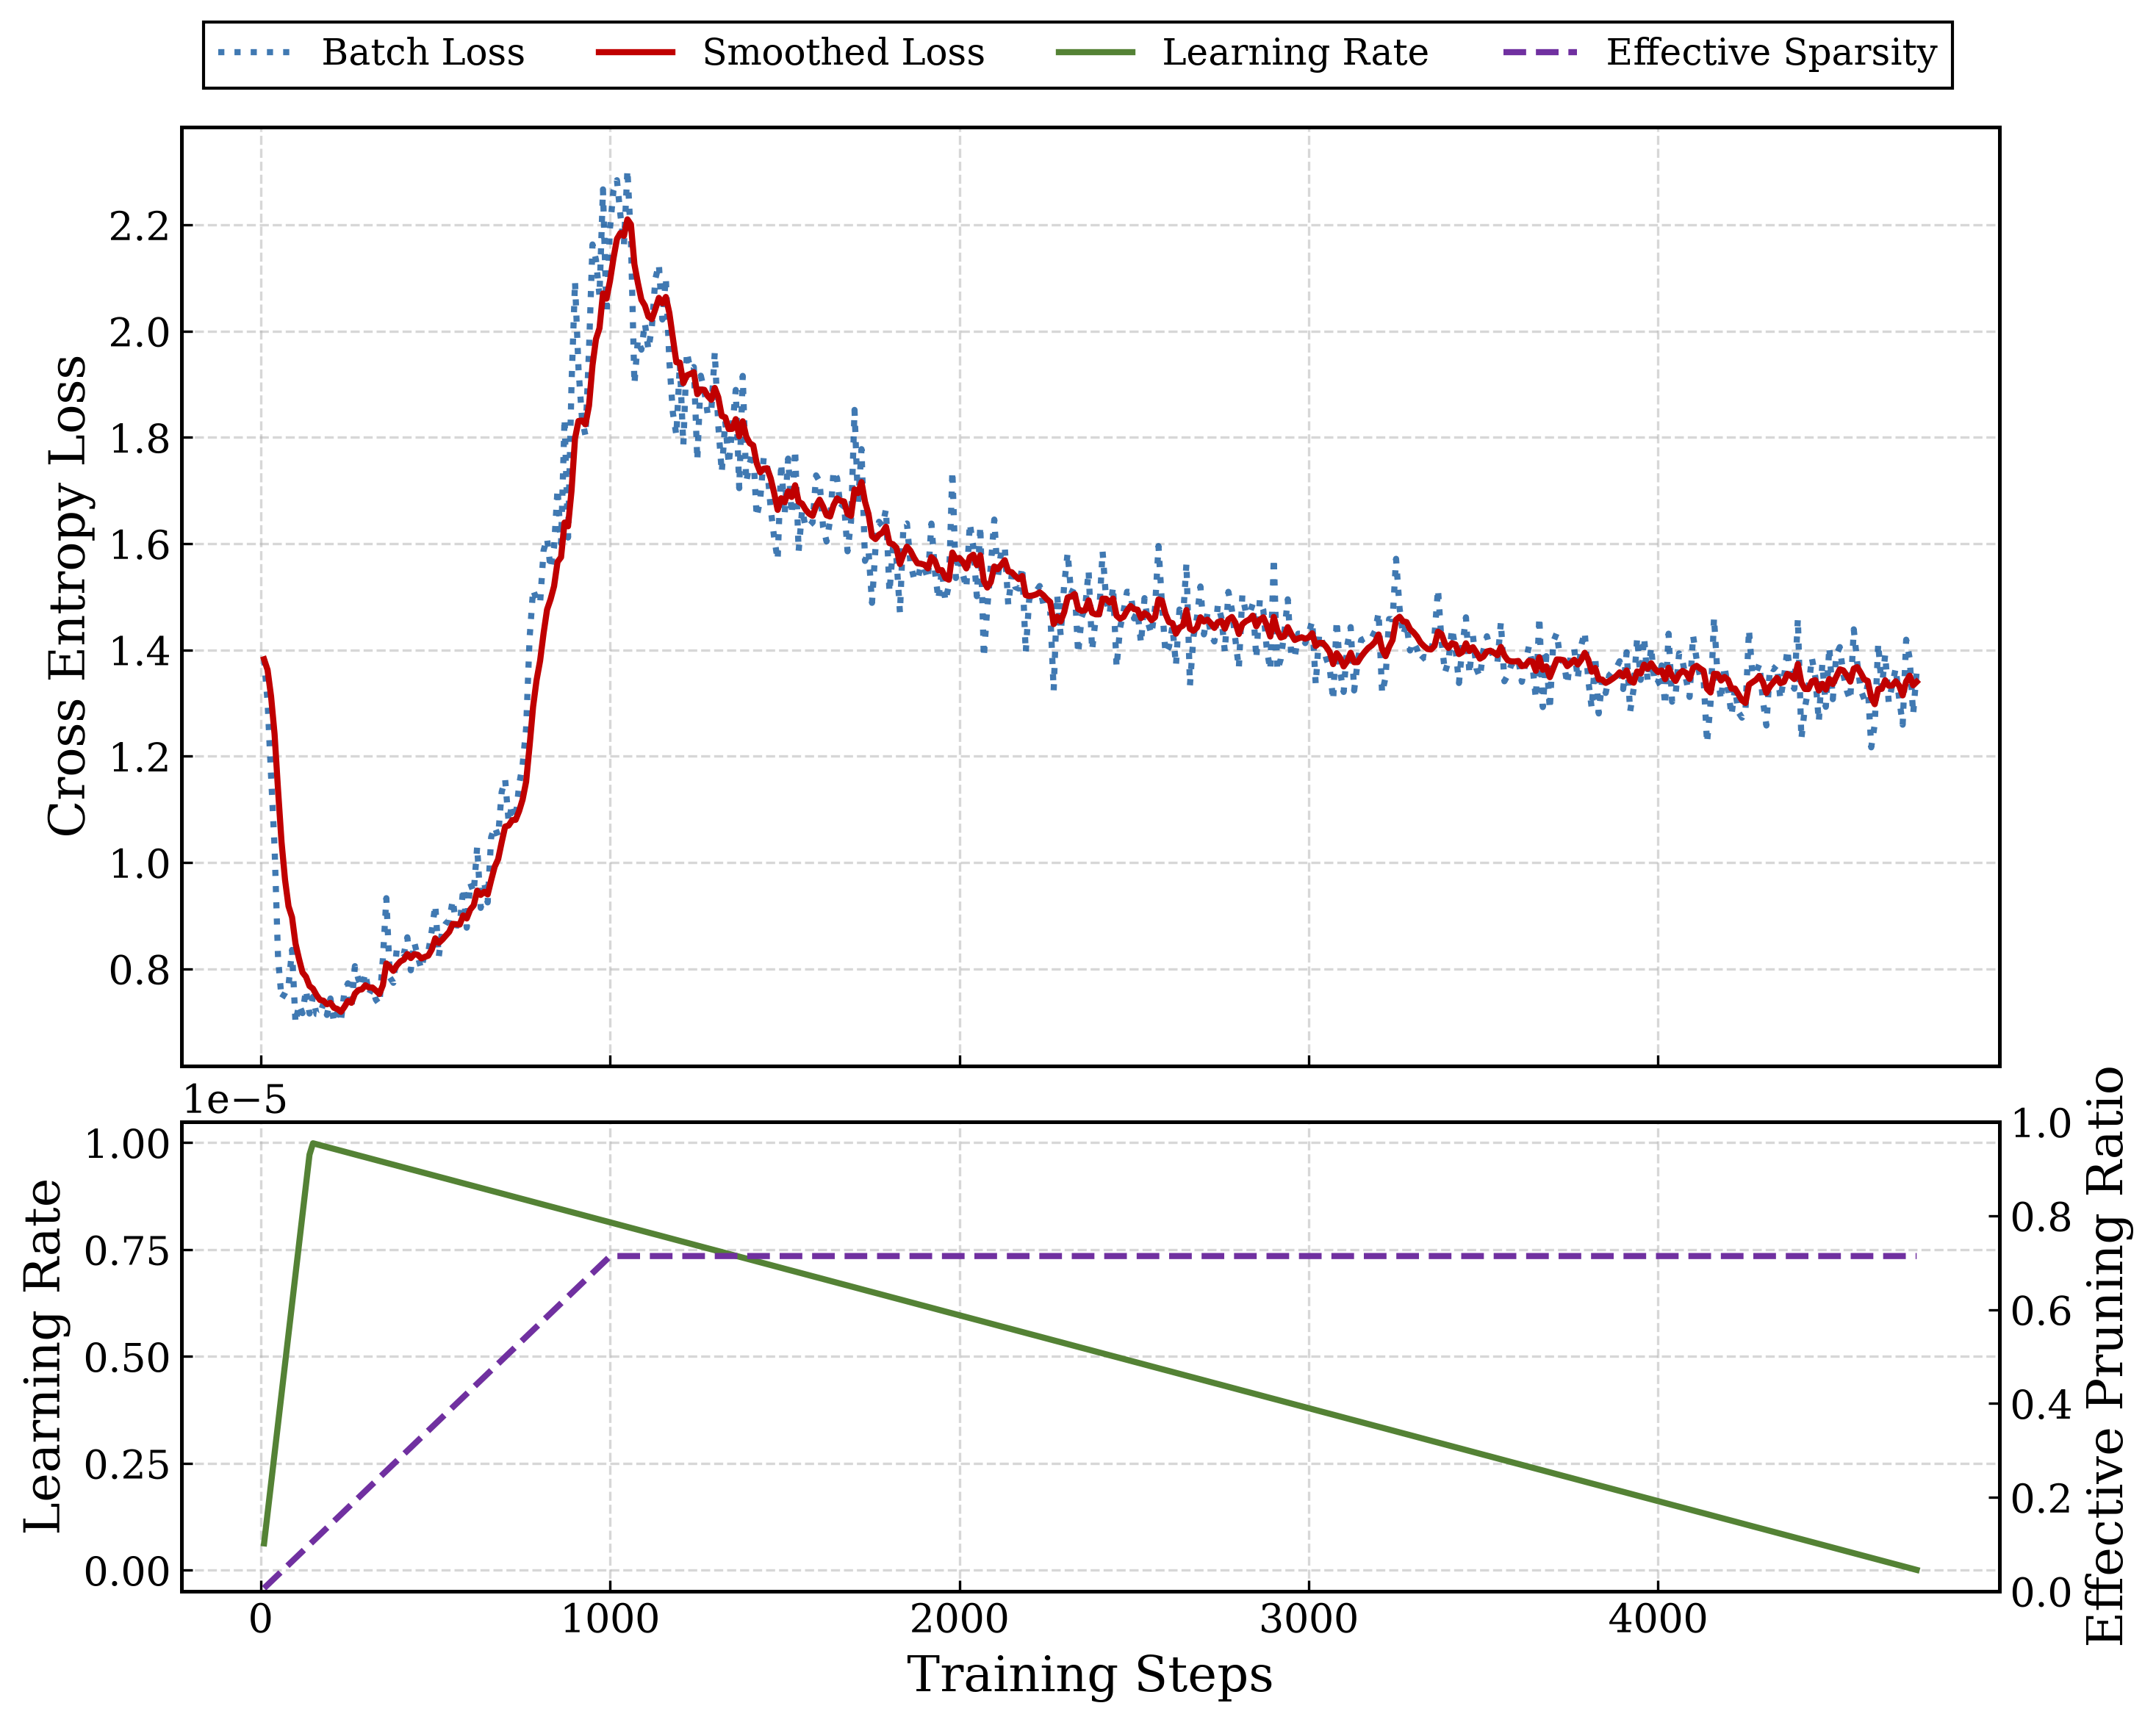
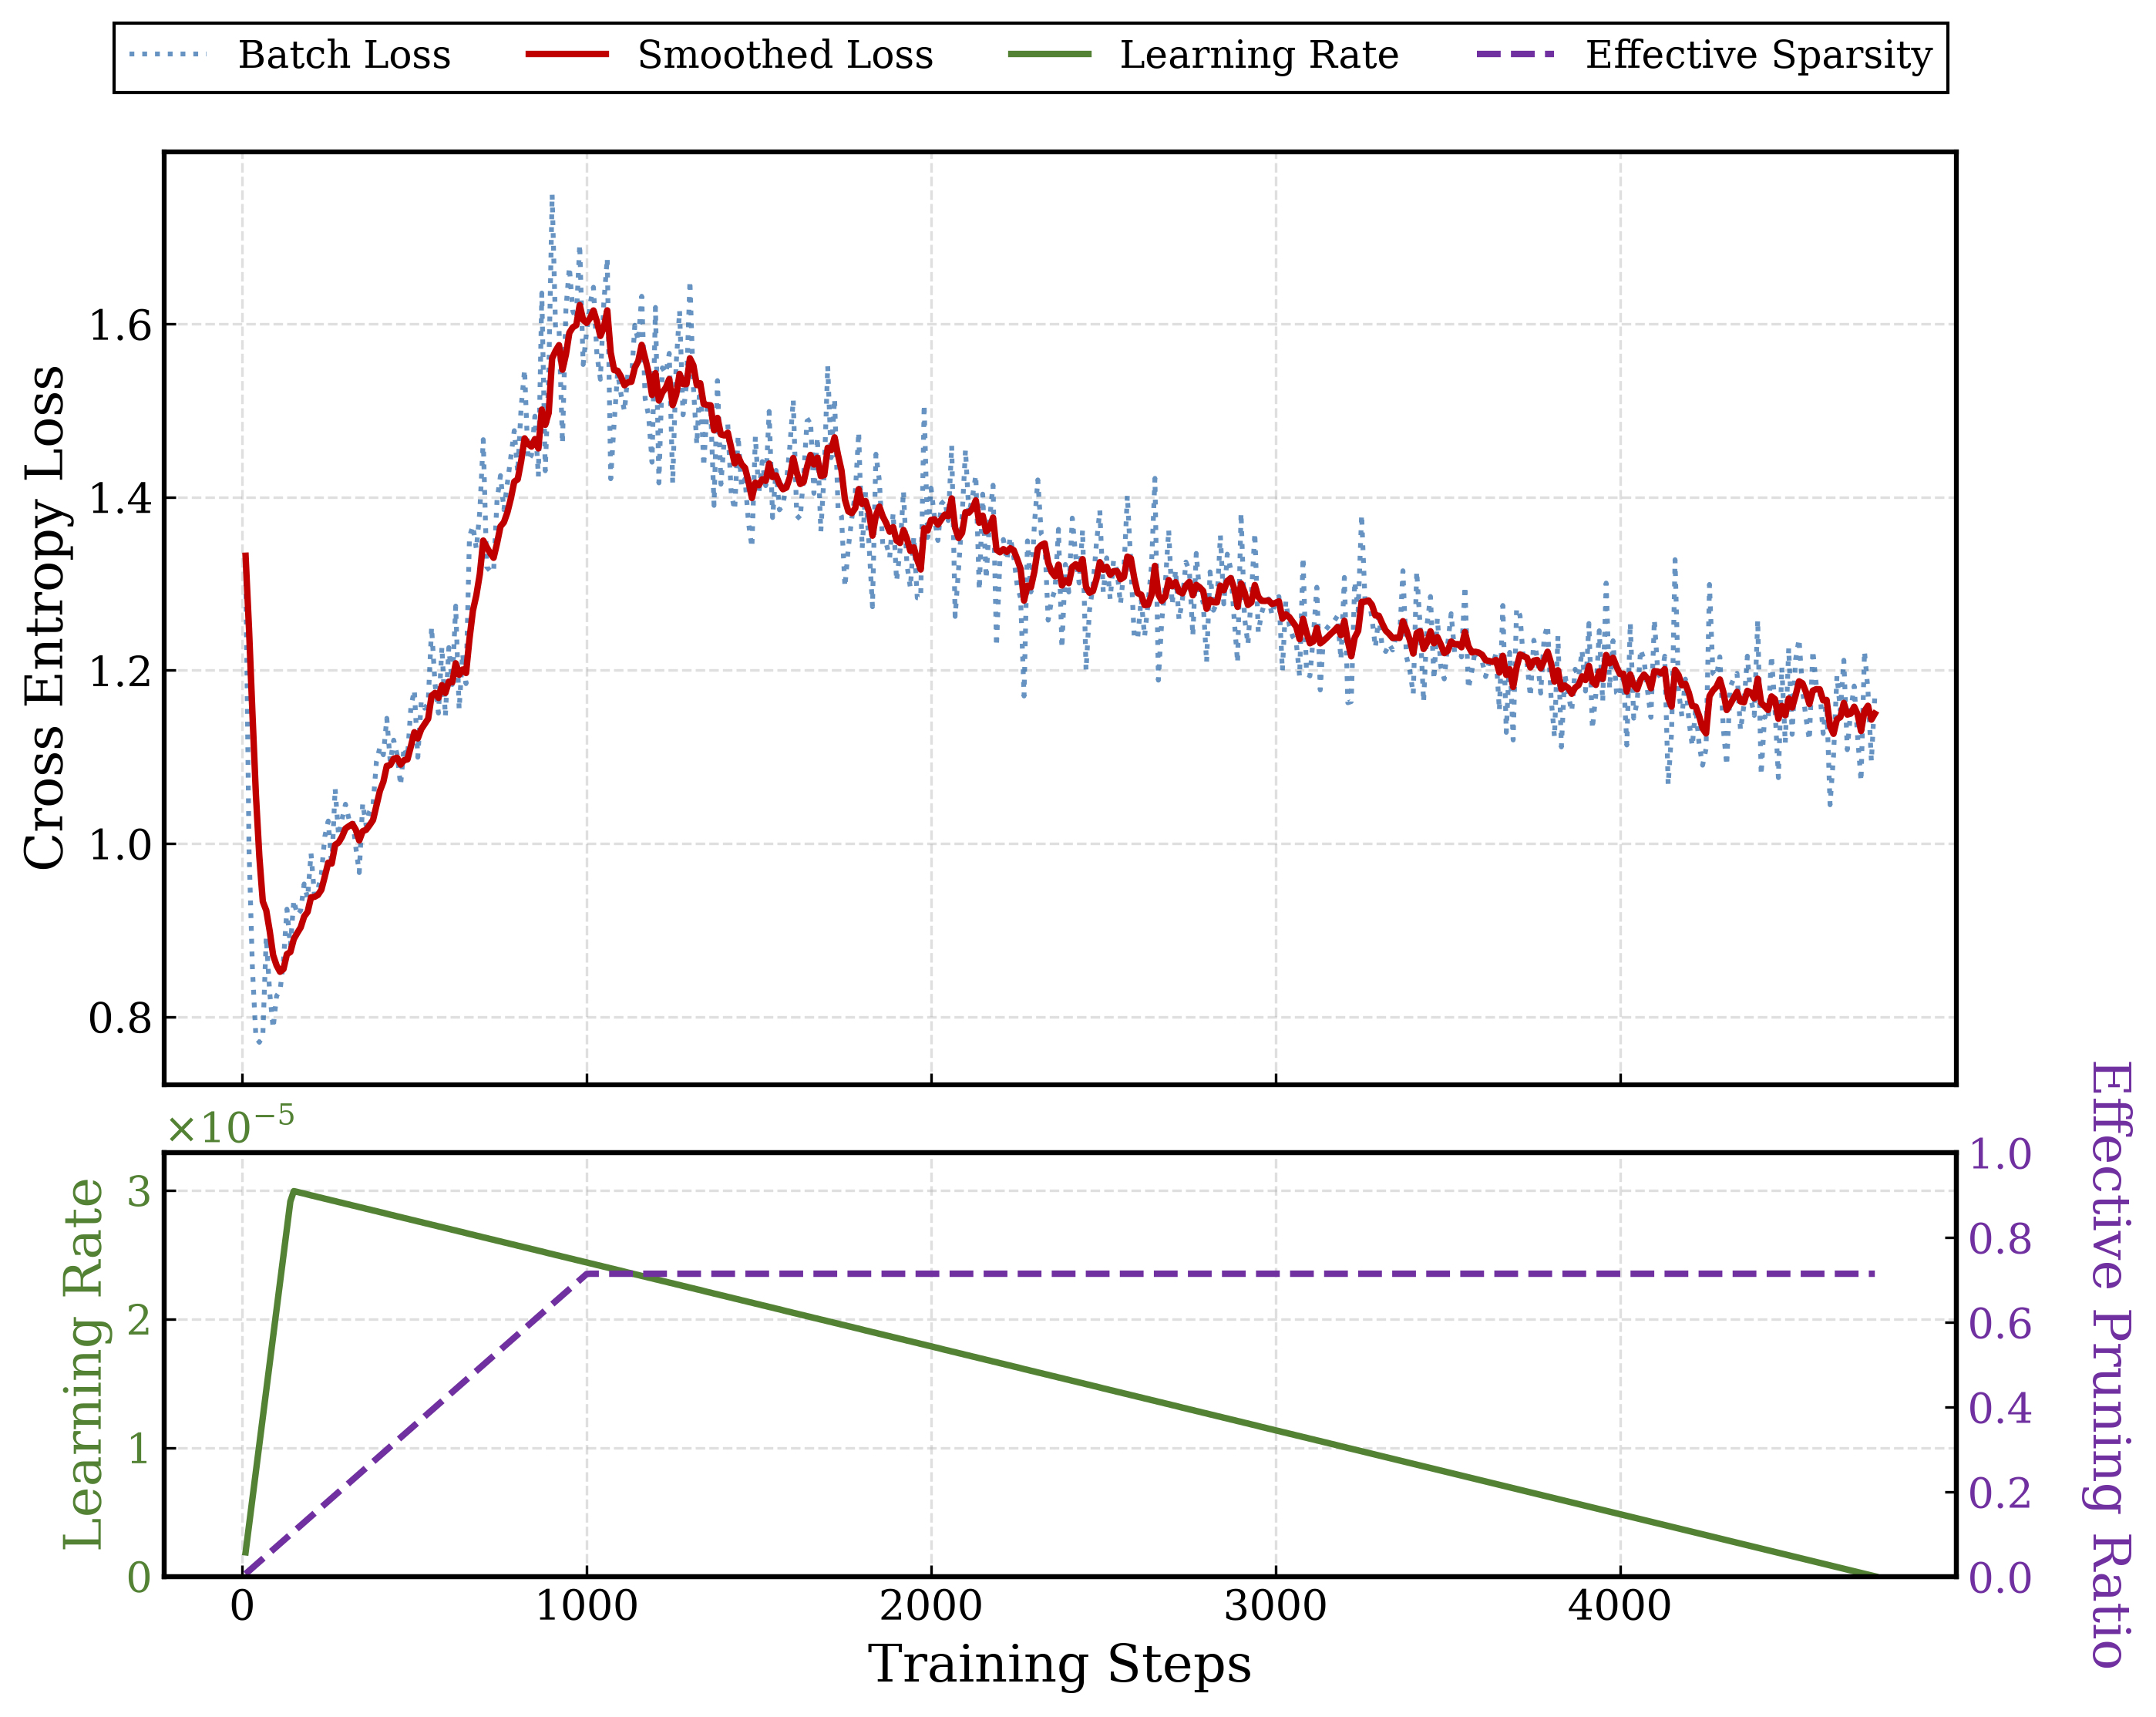
adjust model architecture

diff --git a/visualize_loss.py b/visualize_loss.py
@@ -1,7 +1,7 @@
 #!/usr/bin/env python3
 # -*- coding: utf-8 -*-
 """
-IFPruning SFT Training Dynamics Visualizer
+IFPruning SFT Training Dynamics Visualizer (Conference Optimized)
 """
 
 import re
@@ -14,7 +14,7 @@ OUTPUT_PATH = Path("./loss_curve.png")
 
 SMOOTHING_WEIGHT = 0.75
 
-# 请根据实际使用的模型修改 ORIGINAL_FFN_DIM (例如 Gemma-4-12b 为 14336)
+# 请根据实际使用的模型修改 ORIGINAL_FFN_DIM (例如 Gemma-4-12B 为 14336)
 ORIGINAL_FFN_DIM = 14336 
 TARGET_FFN_DIM = 4096
 
@@ -55,21 +55,21 @@ def compute_ema(values, weight=0.85):
 # 3. 绘图风格
 def set_academic_style():
     plt.rcParams.update({
-        "font.family": "serif",           # 使用衬线字体
+        "font.family": "serif",
         "font.serif": ["Times New Roman", "DejaVu Serif"],
-        "font.size": 14,                  # 基础字号放大
-        "axes.labelsize": 16,             # 坐标轴标签字号
-        "axes.titlesize": 16,             # 子图标题字号
-        "legend.fontsize": 12,            # 图例字号
-        "xtick.labelsize": 13,            # X轴刻度字号
-        "ytick.labelsize": 13,            # Y轴刻度字号
-        "xtick.direction": "in",          # 刻度朝内
-        "ytick.direction": "in",          # 刻度朝内
-        "axes.linewidth": 1.2,            # 边框加粗
-        "lines.linewidth": 2.0,           # 默认线条加粗
-        "figure.facecolor": "white",      # 纯白背景
-        "axes.facecolor": "white",        # 纯白绘图区
-        "grid.alpha": 0.5,                # 弱化网格
+        "font.size": 14,
+        "axes.labelsize": 16,
+        "axes.titlesize": 16,
+        "legend.fontsize": 12,
+        "xtick.labelsize": 13,
+        "ytick.labelsize": 13,
+        "xtick.direction": "in",
+        "ytick.direction": "in",
+        "axes.linewidth": 1.5,
+        "lines.linewidth": 2.0,
+        "figure.facecolor": "white",
+        "axes.facecolor": "white",
+        "grid.alpha": 0.4,
         "grid.linestyle": "--"
     })
 
@@ -82,47 +82,57 @@ def generate_conference_plot(steps, losses, lrs, pruning_ratios, target_max_rati
         figsize=(10, 8), 
         dpi=300, 
         sharex=True, 
-        gridspec_kw={'height_ratios': [2, 1]}
+        gridspec_kw={'height_ratios': [2.2, 1]}
     )
     
-    # 全封闭边框与网格
-    for ax in (ax1, ax2):
-        ax.grid(True)
-        for spine in ax.spines.values():
-            spine.set_color('black')
-
     # ------------------ 顶部子图: Loss ------------------
     smooth_losses = compute_ema(losses, weight=SMOOTHING_WEIGHT)
 
-    ax1.plot(steps, losses, color="#004C99", linewidth=2, linestyle=":", alpha=0.75, label="Batch Loss")
-    ax1.plot(steps, smooth_losses, color="#C00000", linewidth=2, linestyle="-", label="Smoothed Loss")
+    line1 = ax1.plot(steps, losses, color="#004C99", linewidth=1.5, linestyle=":", alpha=0.6, label="Batch Loss")
+    line2 = ax1.plot(steps, smooth_losses, color="#C00000", linewidth=2, linestyle="-", label="Smoothed Loss")
     
     ax1.set_ylabel("Cross Entropy Loss")
+    ax1.grid(True)
+    for spine in ax1.spines.values():
+        spine.set_color('black')
 
     # ------------------ 底部子图: LR & Sparsity ------------------
-    ax2.plot(steps, lrs, color="#548235", linewidth=2.0, linestyle="-", label="Learning Rate")
+    line3 = ax2.plot(steps, lrs, color="#548235", linewidth=2.0, linestyle="-", label="Learning Rate")
     ax2.set_xlabel("Training Steps")
-    ax2.set_ylabel("Learning Rate")
+    ax2.set_ylabel("Learning Rate", color="#548235") 
+    ax2.tick_params(axis='y', labelcolor="#548235")
+    ax2.grid(True)
+    
+    # 获取 LR 的最大值以设置合理的 Y 轴上限
+    max_lr = max(lrs)
+    ax2.set_ylim(0.0, max_lr * 1.1)
 
+    ax2.ticklabel_format(axis='y', style='sci', scilimits=(0,0), useMathText=True)
+    ax2.yaxis.get_offset_text().set_color("#548235")
+
+    # 次坐标轴 (Effective Sparsity)
     ax3 = ax2.twinx()
-    ax3.plot(steps, pruning_ratios, color="#7030A0", linewidth=2.0, linestyle="--", label="Effective Sparsity")
-    ax3.set_ylabel("Effective Pruning Ratio")
+    line4 = ax3.plot(steps, pruning_ratios, color="#7030A0", linewidth=2.0, linestyle="--", label="Effective Sparsity")
+    ax3.set_ylabel("Effective Pruning Ratio", color="#7030A0", rotation=-90, va="bottom", labelpad=15)
+    ax3.tick_params(axis='y', labelcolor="#7030A0")
     
     ax3.set_ylim(0.0, 1.0) 
     ax3.tick_params(direction="in")
 
-    lines_1, labels_1 = ax1.get_legend_handles_labels()
-    lines_2, labels_2 = ax2.get_legend_handles_labels()
-    lines_3, labels_3 = ax3.get_legend_handles_labels()
+    for spine in ax2.spines.values():
+        spine.set_color('black')
+
+    # ------------------ 合并图例 ------------------
+    lines = line1 + line2 + line3 + line4
+    labels = [l.get_label() for l in lines]
     
-    fig.tight_layout()
-    fig.subplots_adjust(top=0.92, hspace=0.08) 
+    fig.subplots_adjust(top=0.88, hspace=0.1) 
     
     fig.legend(
-        lines_1 + lines_2 + lines_3, 
-        labels_1 + labels_2 + labels_3, 
+        lines, 
+        labels, 
         loc="upper center", 
-        bbox_to_anchor=(0.5, 0.99), 
+        bbox_to_anchor=(0.5, 0.96),
         ncol=4, 
         frameon=True, 
         edgecolor="black", 
@@ -130,7 +140,7 @@ def generate_conference_plot(steps, losses, lrs, pruning_ratios, target_max_rati
         framealpha=1.0
     )
 
-    fig.savefig(OUTPUT_PATH, bbox_inches='tight')
+    fig.savefig(OUTPUT_PATH, bbox_inches='tight', pad_inches=0.1)
     plt.close(fig)
 
     print(f"Academic plot generated: {OUTPUT_PATH}")

diff --git a/inference.py b/inference.py
@@ -1,7 +1,7 @@
 #!/usr/bin/env python3
 # -*- coding: utf-8 -*-
 """
-IFPruning SFT Inference Pipeline
+IFPruning SFT Inference Pipeline (Layer-wise Routing Aligned)
 Supports interactive terminal chat and exports routing scores for visualization.
 """
 
@@ -12,6 +12,7 @@ from pathlib import Path
 
 import torch
 import torch.nn as nn
+import math
 from transformers import AutoTokenizer, AutoModelForCausalLM, AutoModel
 from transformers.models.gemma.modeling_gemma import GemmaMLP
 from safetensors.torch import load_file
@@ -21,7 +22,7 @@ from safetensors.torch import load_file
 # ==============================================================================
 BASE_MODEL_PATH = "./gemma-4-12B"
 PREDICTOR_MODEL_PATH = "./Qwen3.5-0.8B"
-CHECKPOINT_DIR = "./gemma-12B-ifpruning" 
+CHECKPOINT_DIR = "./gemma-12B-ifpruning-output" 
 TARGET_SPARSE_DIM = 4096
 
 # 用于保存 Score
@@ -40,10 +41,10 @@ logger = logging.getLogger("ifpruning_inference")
 # Module 1 & 2: Architecture & Wrapper
 # ==============================================================================
 class SparsityPredictor(nn.Module):
-    def __init__(self, target_num_layers: int, target_ffn_dim: int, extractor_path: str):
+    def __init__(self, num_layers: int, ffn_dim: int, extractor_path: str):
         super().__init__()
-        self.num_layers = target_num_layers
-        self.ffn_dim = target_ffn_dim
+        self.num_layers = num_layers
+        self.ffn_dim = ffn_dim
         
         self.feature_extractor = AutoModel.from_pretrained(
             extractor_path, torch_dtype=torch.bfloat16, local_files_only=True
@@ -59,10 +60,11 @@ class SparsityPredictor(nn.Module):
         if extractor_hidden_dim is None:
             extractor_hidden_dim = self.feature_extractor.get_input_embeddings().weight.shape[1]
 
+        # 对齐训练端的 2 层 MLP 架构
         self.mlp = nn.Sequential(
-            nn.Linear(extractor_hidden_dim, 128),
+            nn.Linear(extractor_hidden_dim, 384),
             nn.GELU(),
-            nn.Linear(128, target_num_layers * target_ffn_dim)
+            nn.Linear(384, self.num_layers * self.ffn_dim)
         )
 
     def forward(self, input_ids: torch.Tensor, attention_mask: torch.Tensor) -> torch.Tensor:
@@ -79,6 +81,7 @@ class GemmaDynamicMaskedFFN_Inference(nn.Module):
         self.down_proj = original_mlp.down_proj
         self.act_fn = original_mlp.act_fn 
         self.target_ffn_dim = target_ffn_dim
+        self.full_ffn_dim = int(getattr(self.gate_proj, "out_features"))
         self.layer_scores = None 
 
     def forward(self, x: torch.Tensor) -> torch.Tensor:
@@ -90,9 +93,11 @@ class GemmaDynamicMaskedFFN_Inference(nn.Module):
             _, topk_idx = torch.topk(scores, self.target_ffn_dim, dim=-1)
             indicator = torch.zeros_like(scores).scatter_(-1, topk_idx, 1.0)
             mask = indicator.unsqueeze(1) 
-            activated_hidden = (gate_out * up_out) * mask
+            scale_factor = math.sqrt(max(1.0, self.full_ffn_dim / max(1, self.target_ffn_dim)))
+            activated_hidden = (gate_out * up_out) * mask * scale_factor
         else:
             activated_hidden = gate_out * up_out
+            
         return self.down_proj(activated_hidden)
 
 class GemmaIFPruningWrapper(nn.Module):
@@ -100,7 +105,10 @@ class GemmaIFPruningWrapper(nn.Module):
         super().__init__()
         self.base_model = base_model
         cfg = getattr(base_model.config, "text_config", base_model.config)
-        self.predictor = SparsityPredictor(cfg.num_hidden_layers, cfg.intermediate_size, extractor_path)
+        
+        self.predictor = SparsityPredictor(
+            cfg.num_hidden_layers, cfg.intermediate_size, extractor_path
+        )
         
         target_device = next(base_model.parameters()).device
         self.predictor.to(device=target_device, dtype=base_model.dtype)
@@ -122,6 +130,7 @@ class GemmaIFPruningWrapper(nn.Module):
             p_mask = predictor_attention_mask.to(target_device)
             
             all_layer_scores = self.predictor(p_ids, p_mask)
+            
             for i, layer in enumerate(self.llm_layers):
                 layer.mlp.layer_scores = all_layer_scores[:, i, :]
             
@@ -160,7 +169,9 @@ def main():
         pass
 
     logger.info("Injecting dynamic activation sparsity architecture...")
-    model = GemmaIFPruningWrapper(base_model, TARGET_SPARSE_DIM, str(predictor_model_path))
+    model = GemmaIFPruningWrapper(
+        base_model, TARGET_SPARSE_DIM, str(predictor_model_path)
+    )
 
     logger.info("Restoring decoupled predictor parameters from safetensors...")
     pred_state_dict = load_file(str(predictor_weights_path))
@@ -211,7 +222,7 @@ def main():
             
             torch.save({
                 "prompt": instruction,
-                "scores": scores_tensor.squeeze(0).float() # 保存为 [L, D] 的 float32 矩阵
+                "scores": scores_tensor.squeeze(0).float() # 完整的 [真实层数, D] 矩阵
             }, save_path)
             
             print(f"[*] Routing scores saved to: ./routing_scores/{file_name}")

diff --git a/train.py b/train.py
@@ -145,8 +145,8 @@ class RunConfig:
     gradient_accumulation_steps: int = 4
     num_train_epochs: float = 1
     max_steps: int = -1
-    base_lr: float = 2e-6
-    predictor_lr: float = 1e-5
+    base_lr: float = 2e-5 
+    predictor_lr: float = 3e-5
     weight_decay: float = 0.0
     warmup_ratio: float = 0.03
     max_grad_norm: float = 1.0
@@ -172,7 +172,7 @@ class RunConfig:
     preprocessing_batch_size: int = 1000
     seed: int = 42
     report_to: str = "none"
-    resume: str = "auto"
+    resume: str = "none"
 
 def parse_args() -> RunConfig:
     """Parses command-line arguments mapped to the RunConfig dataclass."""
@@ -267,12 +267,12 @@ class SparsityPredictor(nn.Module):
             hidden_size = self.extractor.get_input_embeddings().weight.shape[1]
             
         self.mlp = nn.Sequential(
-            nn.Linear(hidden_size, 128),
+            nn.Linear(hidden_size, 384),
             nn.GELU(),
-            nn.Linear(128, self.num_layers * self.ffn_dim)
+            nn.Linear(384, self.num_layers * self.ffn_dim)
         )
         
-        nn.init.normal_(self.mlp[-1].weight, mean=0.0, std=1e-4)
+        nn.init.normal_(self.mlp[-1].weight, mean=0.0, std=1e-3)
         nn.init.zeros_(self.mlp[-1].bias)
 
     def train(self, mode: bool = True):
@@ -347,6 +347,8 @@ class DynamicMaskedFFN(nn.Module):
         self.up_proj = mlp.up_proj
         self.down_proj = mlp.down_proj
         self.act_fn = mlp.act_fn
+        self.full_ffn_dim = int(getattr(self.gate_proj, "out_features"))
+        self.target_ffn_dim = int(target_dim)
         
         self.mask_op = BoundedSoftTopK(
             target_dim,
@@ -364,14 +366,19 @@ class DynamicMaskedFFN(nn.Module):
         if self.layer_scores is not None:
             mask = self.mask_op(self.layer_scores).to(dtype=hidden.dtype).unsqueeze(1)
             alpha_val = float(self.mask_alpha.item())
-            
-            # Defense mechanism: Break computation graph deadlocks when alpha=0
-            if alpha_val >= 1.0: 
-                hidden = hidden * mask
-            elif alpha_val <= 0.0: 
+
+            # Dimension-aware rescale to keep activation magnitude stable after pruning.
+            scale_factor = math.sqrt(max(1.0, self.full_ffn_dim / max(1, self.target_ffn_dim)))
+
+            if alpha_val >= 1.0:
+                hidden = (hidden * mask) * scale_factor
+            elif alpha_val <= 0.0:
                 hidden = hidden + (mask * 0.0).to(hidden.dtype)
-            else: 
-                hidden = hidden.mul(1.0 - alpha_val).add(hidden.mul(mask), alpha=alpha_val)
+            else:
+                # Correct warmup interpolation: alpha mixes dense and sparse paths.
+                dense_part = hidden * (1.0 - alpha_val)
+                sparse_part = (hidden * mask) * (alpha_val * scale_factor)
+                hidden = dense_part + sparse_part
                 
         return self.down_proj(hidden)
 

diff --git a/visualize_routing.py b/visualize_routing.py
@@ -1,17 +1,19 @@
 #!/usr/bin/env python3
 # -*- coding: utf-8 -*-
 """
-IFPruning FFN Routing Visualizer
+IFPruning FFN Routing Visualizer (Layer-wise Routing Aligned)
 Compares the activation sparsity patterns of two different prompts.
 """
 
 import sys
 import torch
 import argparse
-from pathlib import Path
 import matplotlib.pyplot as plt
 import numpy as np
 
+# ==============================================================================
+# Global Configuration
+# ==============================================================================
 TARGET_DIM = 4096
 
 def set_academic_style():
@@ -21,8 +23,8 @@ def set_academic_style():
         "font.size": 12,
         "axes.labelsize": 14,
         "axes.titlesize": 14,
-        "xtick.direction": "out",
-        "ytick.direction": "out",
+        "xtick.direction": "in",
+        "ytick.direction": "in",
         "figure.facecolor": "white",
         "axes.facecolor": "white",
     })
@@ -58,18 +60,18 @@ def main():
     prompt1 = data1["prompt"][:60] + "..." if len(data1["prompt"]) > 60 else data1["prompt"]
     prompt2 = data2["prompt"][:60] + "..." if len(data2["prompt"]) > 60 else data2["prompt"]
     
-    # Shape: [num_layers, ffn_dim]
+    # 形状：[num_layers, ffn_dim]
     s1 = data1["scores"]
     s2 = data2["scores"]
     
     if s1.shape != s2.shape:
-        raise ValueError("Score matrices shapes do not match!")
+        raise ValueError(f"Score matrices shapes do not match! s1: {s1.shape}, s2: {s2.shape}")
         
     num_layers, ffn_dim = s1.shape
     
-    # Apply Sigmoid to normalize scores to [0, 1] for better visualization
-    s1_norm = torch.sigmoid(s1).numpy()
-    s2_norm = torch.sigmoid(s2).numpy()
+    # 平滑温度为 0.2，准确反映训练时的路由分布硬度
+    s1_norm = torch.sigmoid(s1 / 0.2).numpy()
+    s2_norm = torch.sigmoid(s2 / 0.2).numpy()
     diff = np.abs(s1_norm - s2_norm)
     
     # Compute Layer-wise IoU